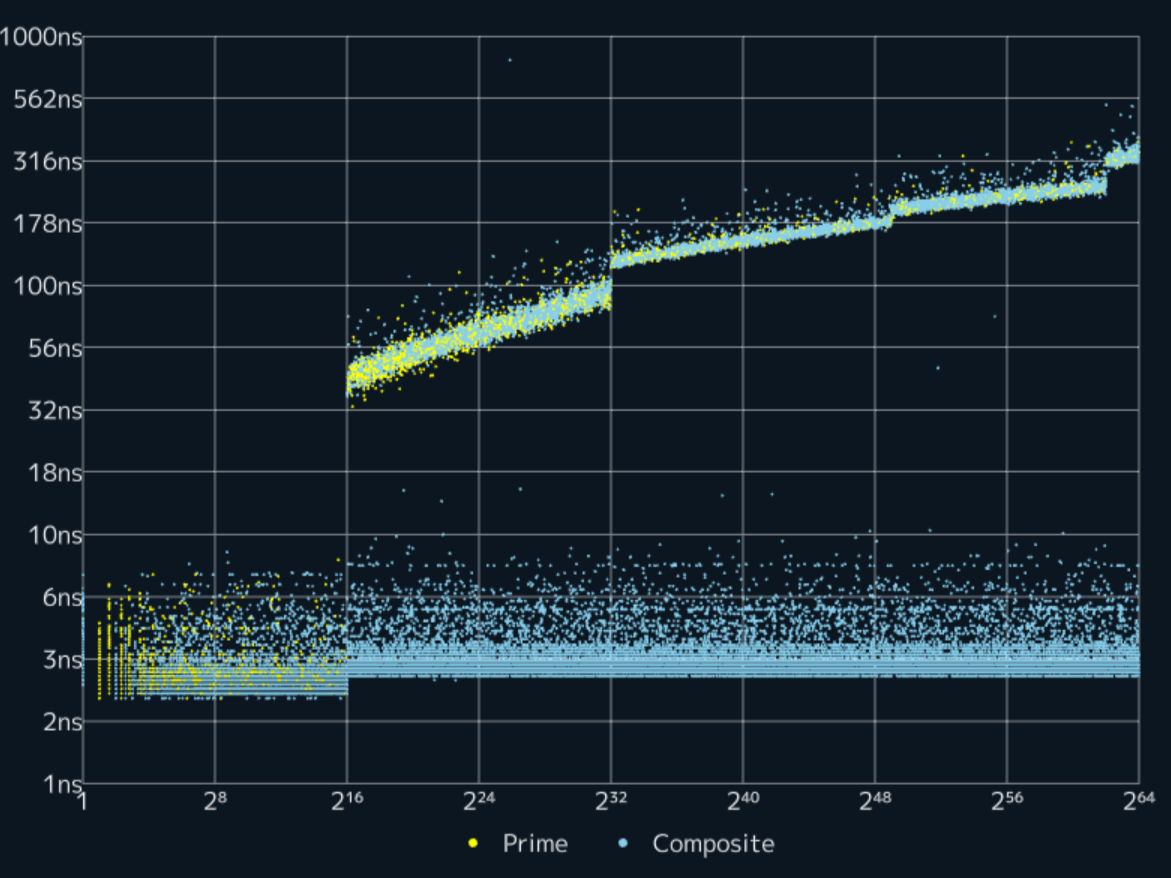
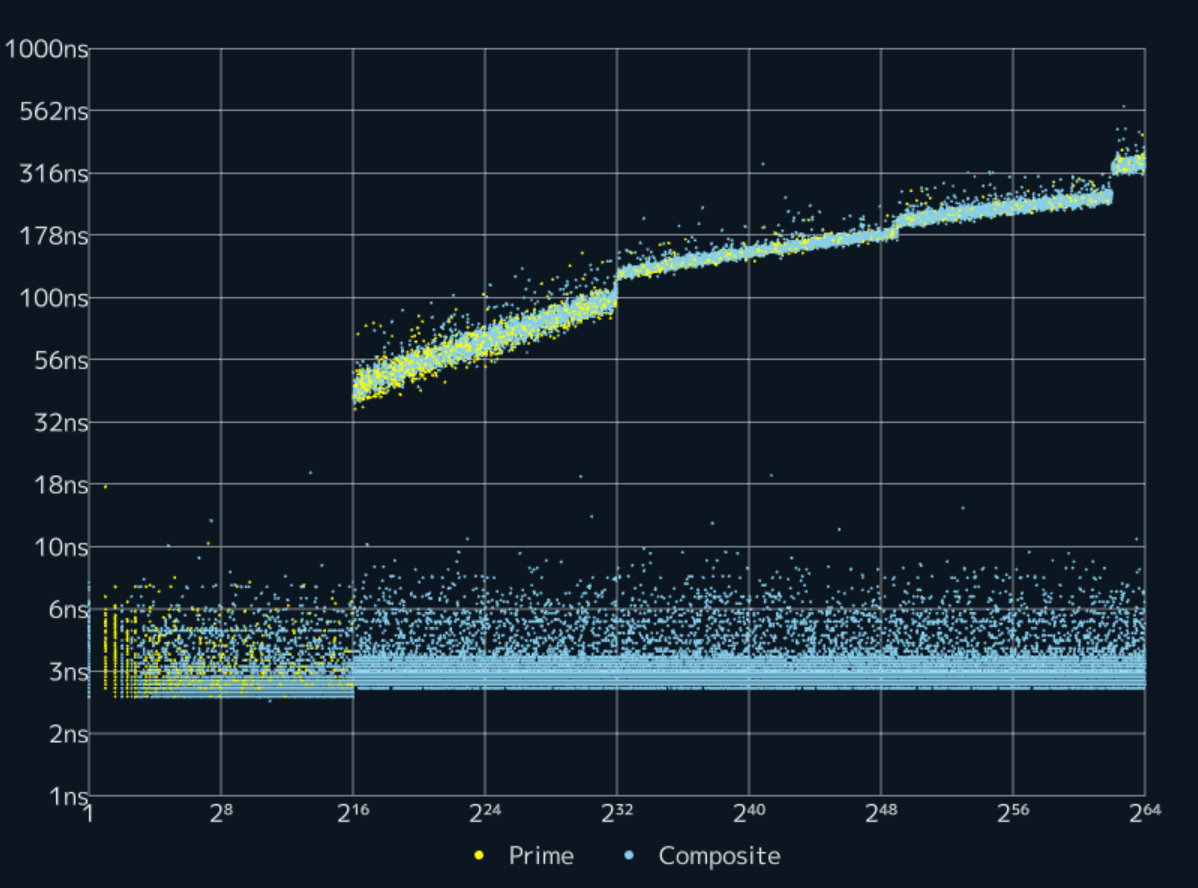
Release ver 1.2.2

diff --git a/libcpprime/internal/IsPrimeCommon.hpp b/libcpprime/internal/IsPrimeCommon.hpp
@@ -178,6 +178,24 @@ namespace internal {
         return { res, cur };
 #endif
     }
+    LIBCPPRIME_CONSTEXPR std::uint32_t GCD32(std::uint32_t x, std::uint32_t y) noexcept {
+        if (x == 0) return 0;
+        const std::int32_t n = CountrZero(x);
+        const std::int32_t m = CountrZero(y);
+        const std::int32_t l = n < m ? n : m;
+        x >>= n;
+        y >>= m;
+        while (x != y) {
+            const std::uint32_t a = y - x, b = x - y;
+            const std::int32_t m = CountrZero(a), n = CountrZero(b);
+            Assume(m == n);
+            const std::uint32_t s = y < x ? b : a;
+            const std::uint32_t t = x < y ? x : y;
+            x = s >> m;
+            y = t;
+        }
+        return x << l;
+    }
 
     template<bool Strict = false> class MontgomeryModint64Impl {
         std::uint64_t mod_ = 0, rs = 0, nr = 0, np = 0;
@@ -271,6 +289,11 @@ namespace internal {
 748,5003,9048,4679,1915,7652,9657,660,3054,15469,2910,775,14106,1749,136,2673,61814,5633,1244,2567,4989,1637,1273,11423,7974,7509,6061,531,6608,1088,1627,160,6416,11350,921,306,18117,1238,463,1722,996,3866,6576,6055,130,24080,7331,3922,8632,2706,24108,32374,4237,15302,287,2296,1220,20922,3350,2089,562,11745,163,11951 };
     // clang-format on
     LIBCPPRIME_CONSTEXPR bool IsPrime32(const std::uint32_t x) noexcept {
+        if (x < 39601) {
+            if (GCD32(Divu128(272518712866683587ull % x, 10755835586592736005ull, x).low, x) != 1) return false;
+            if (x < 11881) return true;
+            return GCD32(Divu128(827936745744686818ull % x, 10132550402535125089ull, x).low, x) == 1;
+        }
         const std::uint32_t h = x * 0xad625b89;
         std::uint32_t d = x - 1;
         std::uint32_t pw = static_cast<std::uint32_t>(Bases[h >> 24]);

diff --git a/README.md b/README.md
@@ -1,6 +1,6 @@
 # libcpprime
 
-**libcpprime** is a fast C++ implementation of a primality test optimized for 64-bit integers.
+**libcpprime** is a efficient C++ implementation of a primality test optimized for 64-bit integers.
 
 # Usage
 
@@ -78,6 +78,8 @@ g++ -I ./libcpprime -O3 Main.cpp
 
 # Releases
 
+- 2024/12/25 ver 1.2.2
+  - Improve performance
 - 2024/12/23 ver 1.2.1
   - Improve performance
 - 2024/12/19 ver 1.2.0
